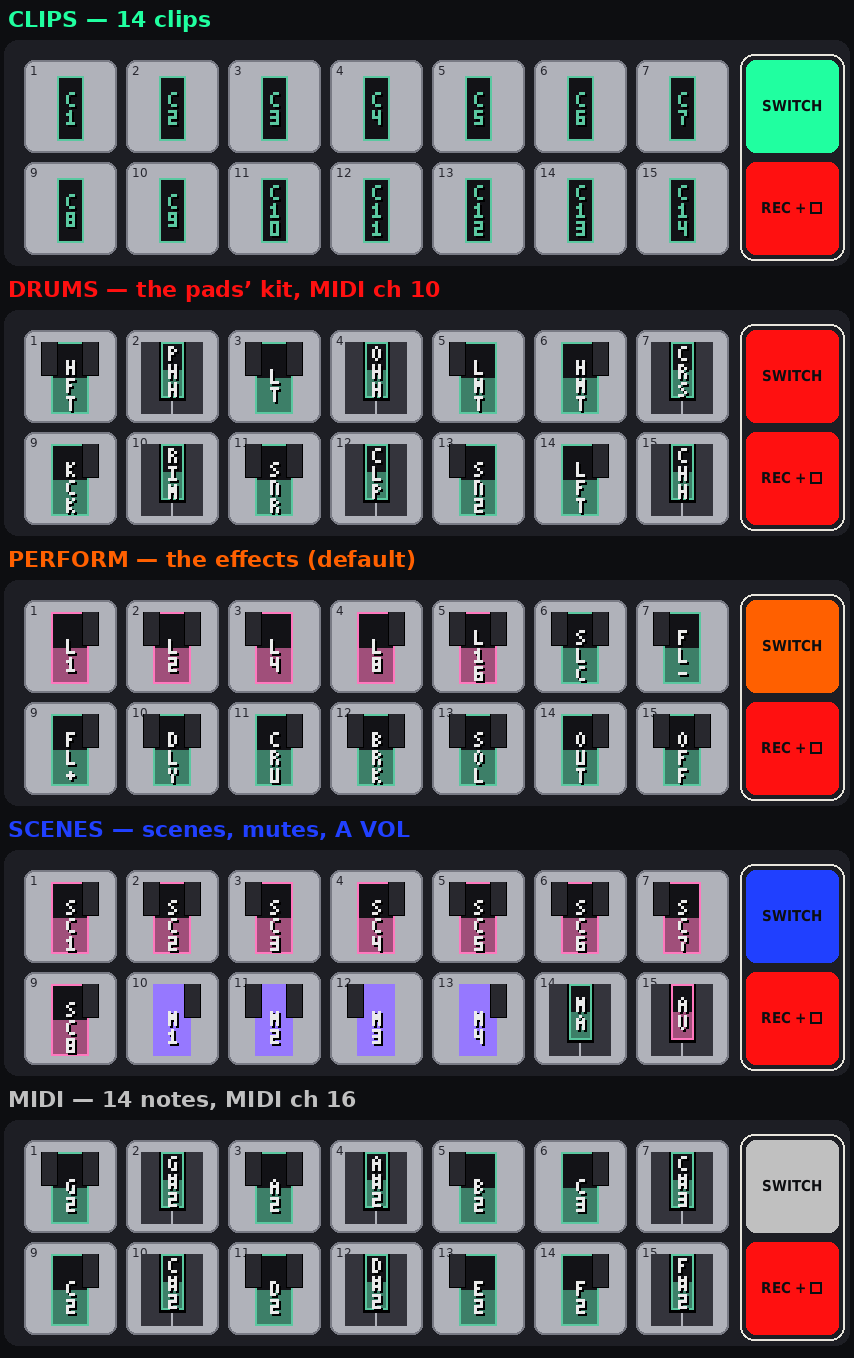
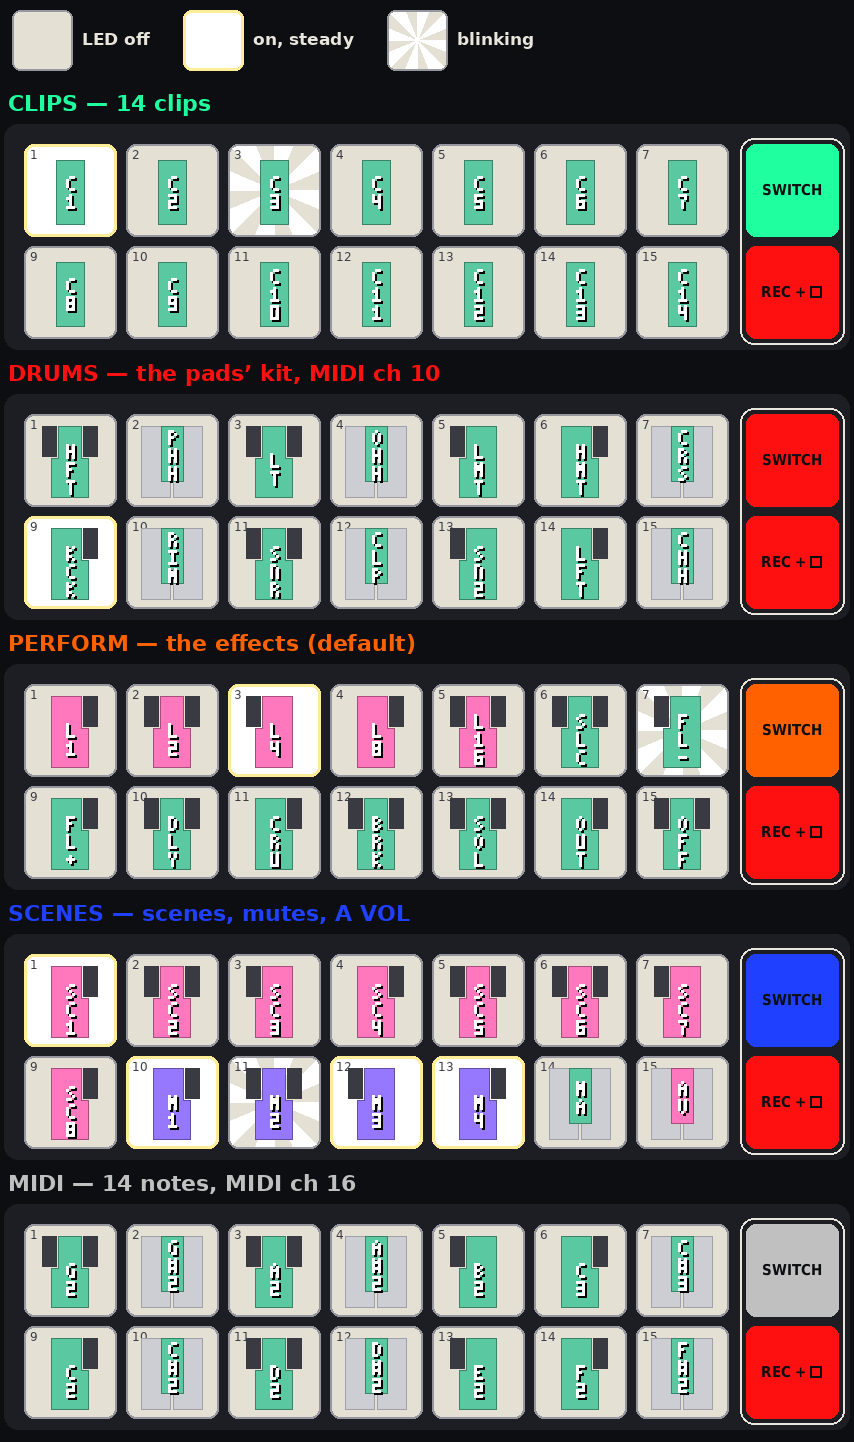
Pads as keys: white pads whose background shows the light (off-white off, white on, rays blinking), real key shapes, light grey neighbours
Claude-Session: https://claude.ai/code/session_01N9f4HJn3ZZ4mEGDi7YNfQW

diff --git a/docs/_FR/22-reperes-ecran-et-menus.md b/docs/_FR/22-reperes-ecran-et-menus.md
@@ -228,7 +228,7 @@ Trois niveaux de lecture. 1 — tous les modes en toutes lettres, dans les coule
 
 <p align="center"><img src="../img/pads-all-modes-short.png" width="560" alt="pads"></p>
 
-3 — chaque pad avec la touche qu’il remplace, comme le clavier à l’écran la dessine (même fonction, même couleur : rose = validé au relâché sur le clavier, menthe = agit tout de suite, violet = piste qui joue ; une touche noire entre ses deux blanches grises) :
+3 — chaque pad avec la touche qu’il remplace, comme le clavier à l’écran la dessine (même fonction, même couleur : rose = validé au relâché sur le clavier, menthe = agit tout de suite, violet = piste qui joue ; une touche noire entre ses deux blanches grises). Le fond du pad montre sa lumière : blanc cassé éteint, blanc vif allumé, rayons blancs clignotant (un exemple par mode) :
 
 <p align="center"><img src="../img/pads-all-modes-keys.png" width="560" alt="pads"></p>
 

diff --git a/docs/_EN/22-screen-keyboard-and-menus.md b/docs/_EN/22-screen-keyboard-and-menus.md
@@ -228,7 +228,7 @@ Three levels. 1 — every mode in full words, in the pads’ colours:
 
 <p align="center"><img src="../img/pads-all-modes-short.png" width="560" alt="pads"></p>
 
-3 — each pad with the key it stands for, as the screen keyboard draws it (same function, same colour: pink = valid on release on the keyboard, mint = acts at once, violet = a track playing; a black key between its two white keys in grey):
+3 — each pad with the key it stands for, as the screen keyboard draws it (same function, same colour: pink = valid on release on the keyboard, mint = acts at once, violet = a track playing; a black key between its two white keys in grey). The pad’s background shows its light: off-white off, bright white on, white rays blinking (an example in each mode):
 
 <p align="center"><img src="../img/pads-all-modes-keys.png" width="560" alt="pads"></p>
 

diff --git a/README.md b/README.md
@@ -45,7 +45,8 @@ In short:
 <p align="center"><img src="docs/img/pads-all-modes-short.png" width="560" alt="The pads in each mode, in short, in the pads' colours"></p>
 
 And each pad as the key it stands for, drawn as the screen keyboard draws it (pink: valid on release on the keyboard,
-mint: acts at once, violet: a track playing):
+mint: acts at once, violet: a track playing); the pad's background shows its light: off-white off, bright white on,
+white rays blinking:
 
 <p align="center"><img src="docs/img/pads-all-modes-keys.png" width="560" alt="Each pad with the key it stands for, in the screen keyboard's colours"></p>
 
